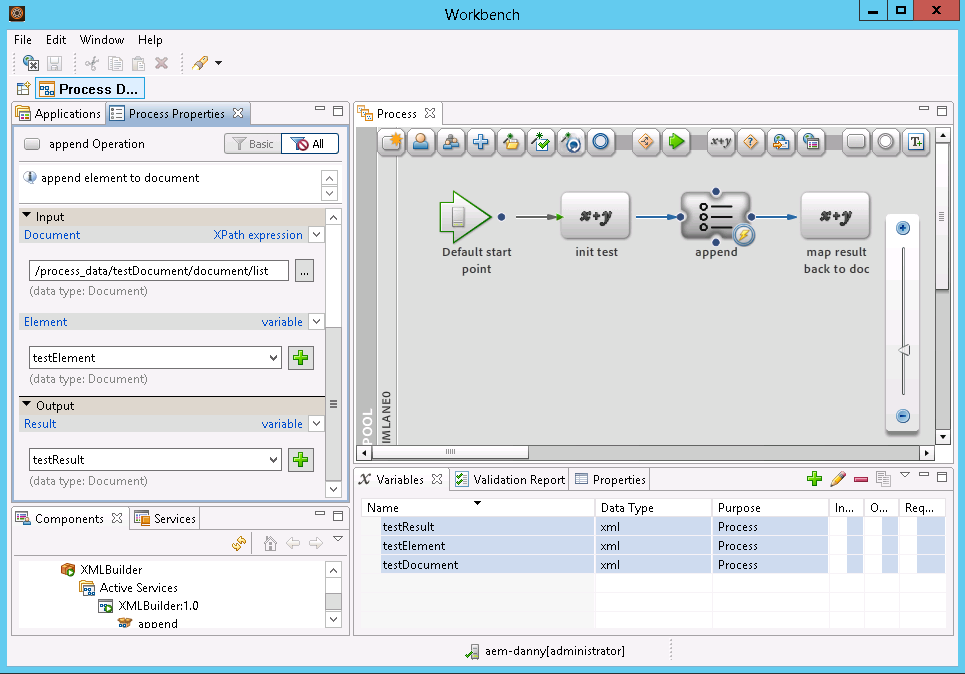
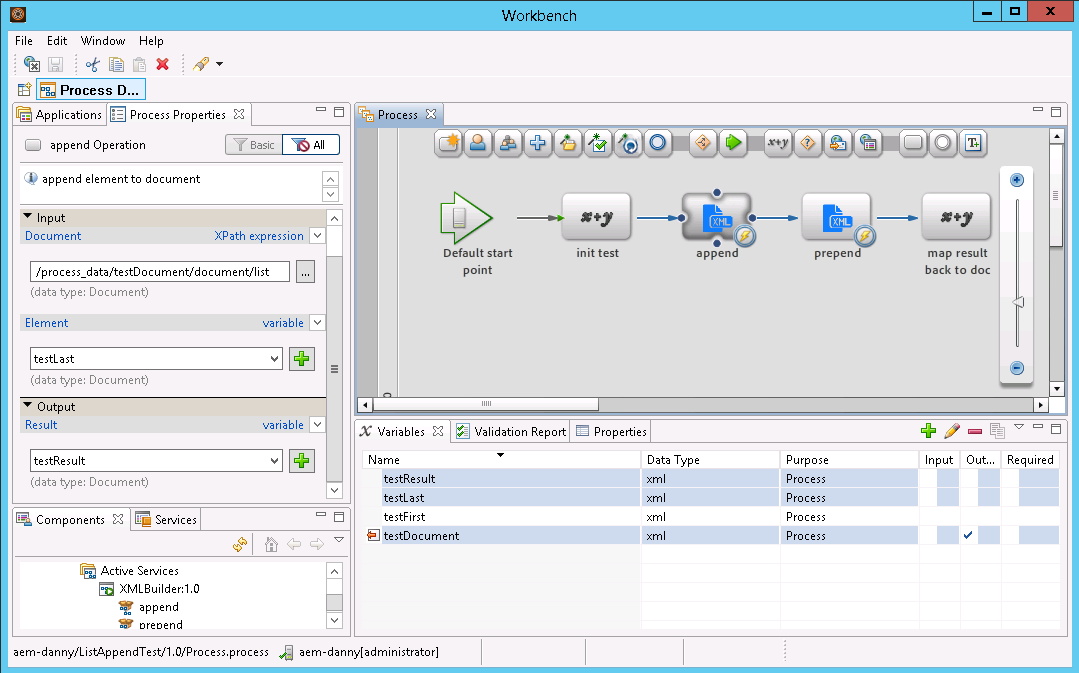
add prepend operation

Changed region(s): [[0.0, 0.0, 1.0, 1.0], [0.8705, 0.0, 1.0, 0.0624], [0.4663, 0.0, 0.5596, 0.0312]]

diff --git a/src/test/java/de/htwb/lc/test/XMLBuilderTest.java b/src/test/java/de/htwb/lc/test/XMLBuilderTest.java
@@ -14,7 +14,7 @@ import static org.junit.Assert.assertEquals;
 public class XMLBuilderTest {
 
     @Test
-    public void testAppendOne() throws Exception {
+    public void testAppend() throws Exception {
 
         // create builder
         DocumentBuilderFactory factory = DocumentBuilderFactory.newInstance();
@@ -44,10 +44,50 @@ public class XMLBuilderTest {
         element.appendChild(third);
 
         // call appender
-        Document append = new XMLBuilder().append(document, element);
+        Document actual = new XMLBuilder().append(document, element);
 
         // assert entries
-        NodeList nodes = append.getDocumentElement().getChildNodes();
+        NodeList nodes = actual.getDocumentElement().getChildNodes();
+        assertEquals(3, nodes.getLength());
+        assertEquals(first.getTextContent(), nodes.item(0).getTextContent());
+        assertEquals(third.getTextContent(), nodes.item(2).getTextContent());
+    }
+
+    @Test
+    public void testPrepend() throws Exception {
+
+        // create builder
+        DocumentBuilderFactory factory = DocumentBuilderFactory.newInstance();
+        DocumentBuilder builder = factory.newDocumentBuilder();
+
+        // build document
+        Document document = builder.newDocument();
+        document.setXmlStandalone(true);
+
+        Element root = document.createElement("list");
+        document.appendChild(root);
+
+        Element second = document.createElement("entry");
+        second.setTextContent("second");
+        root.appendChild(second);
+
+        Element third = document.createElement("entry");
+        third.setTextContent("third");
+        root.appendChild(third);
+
+        // create element to prepend
+        Document element = builder.newDocument();
+        element.setXmlStandalone(true);
+
+        Element first = element.createElement("entry");
+        first.setTextContent("first");
+        element.appendChild(first);
+
+        // call prepend
+        Document actual = new XMLBuilder().prepend(document, element);
+
+        // assert entries
+        NodeList nodes = actual.getDocumentElement().getChildNodes();
         assertEquals(3, nodes.getLength());
         assertEquals(first.getTextContent(), nodes.item(0).getTextContent());
         assertEquals(third.getTextContent(), nodes.item(2).getTextContent());

diff --git a/src/main/java/de/htwb/lc/XMLBuilder.java b/src/main/java/de/htwb/lc/XMLBuilder.java
@@ -4,11 +4,11 @@ import org.w3c.dom.Document;
 import org.w3c.dom.Element;
 import org.w3c.dom.Node;
 
+/**
+ * Implements the documented Java Execute Hacks, see http://www.adobe.com/devnet/livecycle/articles/building-xml.html
+ */
 public class XMLBuilder {
 
-    /**
-     * Implements the documented Java Execute Hack, see http://www.adobe.com/devnet/livecycle/articles/building-xml.html
-     */
     public Document append(Document document, Document element) throws Exception {
         Element docRoot = document.getDocumentElement();
         Element elemRoot = element.getDocumentElement();
@@ -17,4 +17,11 @@ public class XMLBuilder {
         return document;
     }
 
+    public Document prepend(Document document, Document element) throws Exception {
+        Element docRoot = document.getDocumentElement();
+        Element elemRoot = element.getDocumentElement();
+        Node elemNode = document.importNode(elemRoot, true);
+        docRoot.insertBefore(elemNode, docRoot.getFirstChild());
+        return document;
+    }
 }
